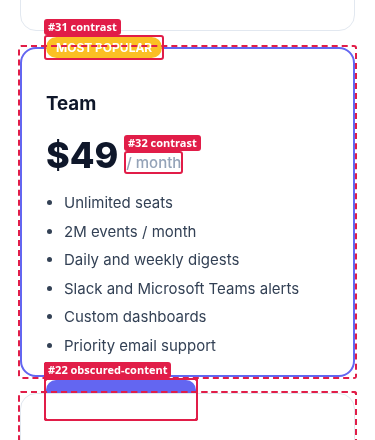
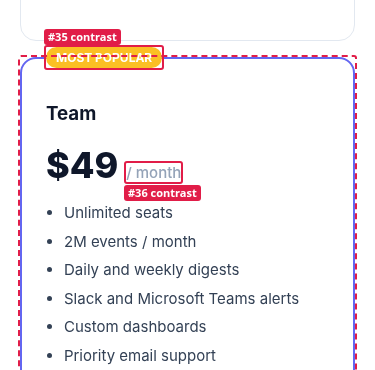
README hero: text that doesn't fit its box; labels avoid covering text
- New top image: six overflow bugs from renderlint's own annotated
  screenshots (demo and KPI examples, two agent-built apps, an Elementor
  page). The weather before/after moves to "Does it work?".
- Screenshot labels are placed where they hide the least: not over the
  flagged element, other painted text or other labels (a collapsed
  accordion's text doesn't count), and never past the screenshot edge.
- Regenerated the gallery and WordPress images with the new labels and
  realigned the demo crops that had drifted.

diff --git a/src/runner.js b/src/runner.js
@@ -502,10 +502,62 @@ async function annotate(page, issues, config) {
       add(b.rect, false);
       const tag = document.createElement('div');
       tag.textContent = '#' + b.n + ' ' + b.rule;
-      tag.style.cssText = `position:absolute;left:${Math.max(0, b.rect.x - 2)}px;top:${Math.max(0, b.rect.y - 18)}px;background:${color};color:#fff;font:600 11px/16px system-ui,sans-serif;padding:0 4px;border-radius:3px;white-space:nowrap`;
+      tag.style.cssText = `position:absolute;left:0;top:0;background:${color};color:#fff;font:600 11px/16px system-ui,sans-serif;padding:0 4px;border-radius:3px;white-space:nowrap`;
       root.appendChild(tag);
+      b.tag = tag;
     }
     document.documentElement.appendChild(root);
+
+    // Place each label where it hides the least: not over the flagged element, other text or other labels.
+    const pageW = document.documentElement.clientWidth; // the screenshot is the viewport wide
+    const near = (r, m) => boxes.some((b) => r.x < b.rect.x + b.rect.w + m && r.x + r.w > b.rect.x - m && r.y < b.rect.y + b.rect.h + m && r.y + r.h > b.rect.y - m);
+    // Text that is actually painted: not hidden, and not clipped away (a collapsed accordion still has text rects).
+    const shown = (el, r) => {
+      for (let e = el; e && e !== document.body && e !== document.documentElement; e = e.parentElement) {
+        const st = getComputedStyle(e);
+        if (st.visibility === 'hidden' || st.opacity === '0' || st.display === 'none') return false;
+        if (st.overflowX !== 'visible' || st.overflowY !== 'visible') {
+          const q = e.getBoundingClientRect(), bx = q.left + scrollX, by = q.top + scrollY;
+          if (r.x + r.w <= bx || r.x >= bx + q.width || r.y + r.h <= by || r.y >= by + q.height) return false;
+        }
+      }
+      return true;
+    };
+    const texts = [];
+    const walker = document.createTreeWalker(document.body || document.documentElement, NodeFilter.SHOW_TEXT);
+    const range = document.createRange();
+    for (let t = walker.nextNode(); t && texts.length < 4000; t = walker.nextNode()) {
+      if (!t.data.trim() || root.contains(t)) continue;
+      range.selectNodeContents(t);
+      for (const q of range.getClientRects()) {
+        const r = { x: q.left + scrollX, y: q.top + scrollY, w: q.width, h: q.height };
+        if (r.w > 0 && r.h > 0 && near(r, 90) && shown(t.parentElement, r)) texts.push(r);
+      }
+    }
+    const overlap = (a, c) => Math.max(0, Math.min(a.x + a.w, c.x + c.w) - Math.max(a.x, c.x)) * Math.max(0, Math.min(a.y + a.h, c.y + c.h) - Math.max(a.y, c.y));
+    const placed = [];
+    for (const b of boxes) {
+      const w = b.tag.offsetWidth, h = b.tag.offsetHeight, r = b.rect;
+      const spots = [
+        [r.x - 2, r.y - h - 2], [r.x - 2, r.y + r.h + 3], [r.x + r.w - w + 2, r.y - h - 2], [r.x + r.w - w + 2, r.y + r.h + 3],
+        [r.x + r.w + 4, r.y], [r.x - w - 4, r.y], [r.x + r.w - w - 2, r.y + 2],
+      ];
+      let best = null;
+      for (const [i, [x, y]] of spots.entries()) {
+        const cand = { x, y, w, h };
+        if (x < 0 || y < 0 || x + w > pageW) continue;
+        let cost = i * 4; // prefer the usual spot above the box
+        for (const t of texts) cost += overlap(cand, t);
+        for (const o of boxes) cost += overlap(cand, o.rect) * (o === b ? 3 : 1);
+        for (const p of placed) cost += overlap(cand, p) * 5;
+        if (!best || cost < best.cost) best = { ...cand, cost };
+      }
+      if (!best) best = { x: Math.max(0, Math.min(r.x - 2, pageW - w)), y: Math.max(0, r.y - h - 2), w, h };
+      b.tag.style.left = best.x + 'px';
+      b.tag.style.top = best.y + 'px';
+      placed.push(best);
+      delete b.tag;
+    }
   }, boxes);
 }
 

diff --git a/README.md b/README.md
@@ -9,8 +9,8 @@
   <img src="https://img.shields.io/badge/framework-any-8b5cf6.svg" alt="Any framework">
 </p>
 
-![Same weather-app prompt in two Claude Code sessions: 42 contrast errors without renderlint, 0 with it](docs/images/compare-weather.png)
-<p align="center"><sub>The same prompt in two Claude Code sessions. Left: no renderlint, 42 errors (its annotated report). Right: the session that ran renderlint and fixed its own findings.</sub></p>
+![Six overflow bugs renderlint caught: a long email running off its card, a total cut off only at 1024px, a heading running off a phone screen, chart labels cut off by the SVG edge, a heading clipped by its card, a feature list spilling out of a pricing card](docs/images/hero-overflow.png)
+<p align="center"><sub>Six times text didn't fit its box, each one renderlint's own annotated screenshot: from example pages, from apps Claude built in headless sessions, and from an Elementor page. More in the <a href="docs/gallery.md">gallery</a>.</sub></p>
 
 Text spilling out of cards, gray-on-gray captions, chart labels on top of each other, a layout that only breaks at 1024px, a dropdown arrow jammed against the border, `$undefined` in a KPI tile, emoji where icons should be. TypeScript and ESLint can't see any of this, because the code is fine. It's the *pixels* that are wrong.
 
@@ -127,13 +127,14 @@ We ran 22 headless Claude Code sessions (Opus and Haiku), each building a typica
 - **All 11 apps built with renderlint finished at 0 errors**, because the agents fixed the issues themselves.
 - Rescored later with the width sweep, the extra stress profiles and the form rules, the renderlint-built apps show **11 errors in 5 apps**. All of them are real and none were checkable at the time (9 only appear at 320–360px). The baselines show 225 errors.
 
+![Same weather-app prompt in two Claude Code sessions: 42 contrast errors without renderlint, 0 with it](docs/images/compare-weather.png)
+<p align="center"><sub>The same weather-app prompt in two sessions. Left: no renderlint, 42 errors (its annotated report). Right: the session that ran renderlint and fixed its own findings.</sub></p>
+
 Details, per-app numbers and lessons: [docs/results.md](docs/results.md).
 
 ## See it
 
 Every run saves annotated screenshots with each finding boxed and numbered, so agents with vision (and humans) can see what's wrong.
-
-![A long email runs out of its account card and under the next one, and a status label spills out of its chip; renderlint marks both as text-overflow](docs/images/demo-long-text.png)
 
 <table>
 <tr>

diff --git a/docs/gallery.md b/docs/gallery.md
@@ -2,6 +2,12 @@
 
 Every renderlint run saves annotated screenshots to `.renderlint/screens/`. Each finding is boxed and numbered to match the text report, so a coding agent with vision (or a person) can see exactly what is wrong. The images below are crops of those screenshots.
 
+## Text that doesn't fit its box
+
+The most common and most annoying class of UI bug: it throws no error, passes every test, and looks fine on the screen it was built on. Each tile is a crop of renderlint's annotated screenshot. They come from the [demo page](../examples/demo/index.html), the [KPI example](../examples/kpi-sweep/index.html), two apps built in the [agent experiments](results.md), and an Elementor page ([WordPress](wordpress.md)).
+
+![Six overflow bugs renderlint caught](images/hero-overflow.png)
+
 ## Same prompt, with and without renderlint
 
 Each pair comes from two separate headless Claude Code sessions given the same app prompt. The left session got only the prompt. The right one also got the one-line renderlint setup prompt from the README, and fixed its own findings until the check passed. Details: [results.md](results.md).
